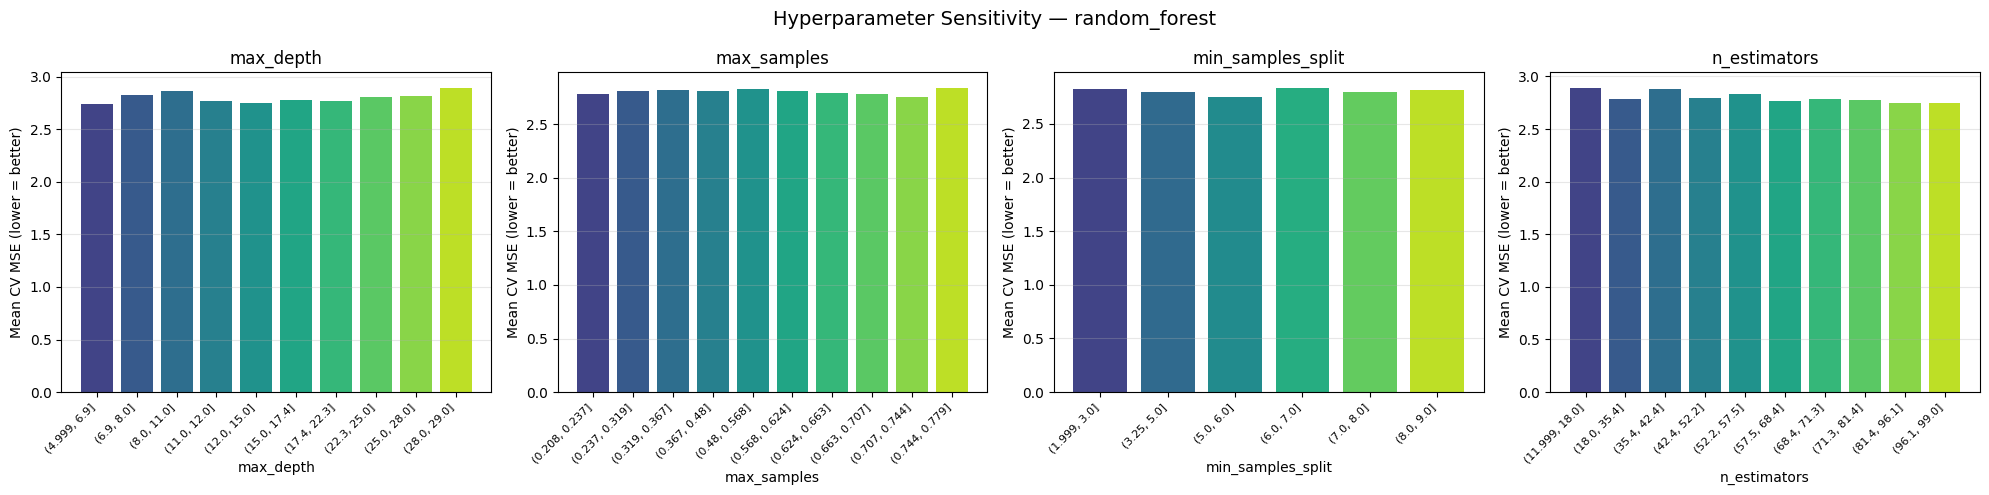
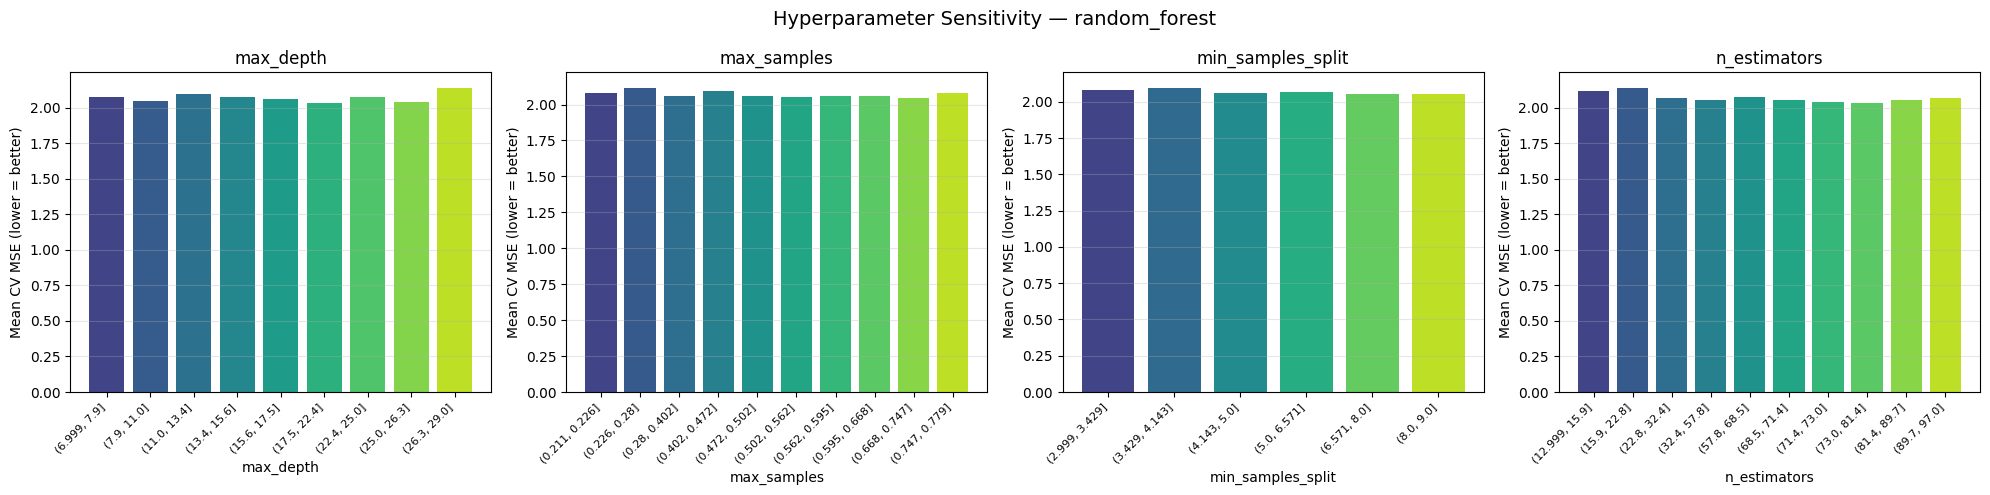
95 fix: training pipeline using wrong dataset directory (#96)
* fix: add dataset caching, negative value handling, verbose training and updated report plots

* doc(report): better report

* fix: add sample_weights.json to timestamped dataset directory

* ignore ml runs

---------

diff --git a/apps/training/training/dataset.py b/apps/training/training/dataset.py
@@ -22,6 +22,10 @@ from sklearn.feature_extraction.text import TfidfVectorizer
 from sklearn.model_selection import PredefinedSplit
 
 logger = get_logger(__name__)
+# Module-level cache for loaded records
+# Avoids re-reading 61k records from disk on every CV fold
+_records_cache: dict[str, list] = {}
+
 
 X_t = npt.NDArray[Any]
 Y_t = npt.NDArray[np.floating]
@@ -166,7 +170,10 @@ class Dataset(BaseModel):
     """
     pipeline_dir = find_latest_pipeline_output()
     jsonl_path = pipeline_dir / "tickets_transformed_improved.jsonl"
-    all_records = _load_jsonl(jsonl_path)
+    cache_key = str(jsonl_path)
+    if cache_key not in _records_cache:
+      _records_cache[cache_key] = _load_jsonl(jsonl_path)
+    all_records = _records_cache[cache_key]
 
     indices = _split_indices(len(all_records), self.split)
     records = [all_records[i] for i in indices]
@@ -298,6 +305,9 @@ class Dataset(BaseModel):
     records = self._load_records()
     raw = [r.get("completion_hours_business") for r in records]
     y = np.array(raw, dtype=np.float64)
+
+    # Replace negative values with NaN (data quality issue)
+    y[y < 0] = np.nan
 
     # Replace missing values with the column mean so the array is complete
     missing_mask = np.isnan(y)

diff --git a/apps/training/training/trainers/train_forest.py b/apps/training/training/trainers/train_forest.py
@@ -44,9 +44,10 @@ def fit_grid(
     cv=cv_split,
     scoring="neg_mean_squared_error",
     refit=True,
-    n_iter=50,
+    n_iter=20,
     random_state=RANDOM_SEED,
     error_score="raise",  # type: ignore
+    verbose=2,
   )
 
   return grid.fit(x, y, sample_weight=sample_weight)

diff --git a/apps/training/training/trainers/train_linear.py b/apps/training/training/trainers/train_linear.py
@@ -45,9 +45,10 @@ def fit_grid(
     scoring="neg_mean_squared_error",
     refit=True,
     n_jobs=-1,
-    n_iter=50,
+    n_iter=20,
     random_state=RANDOM_SEED,
     error_score="raise",  # type: ignore
+    verbose=2,
   )
 
   return grid.fit(x, y, sample_weight=sample_weight)

diff --git a/apps/training/training/trainers/train_xgboost.py b/apps/training/training/trainers/train_xgboost.py
@@ -64,9 +64,10 @@ def fit_grid(
     scoring="neg_mean_squared_error",
     refit=True,
     n_jobs=1,
-    n_iter=50,
+    n_iter=20,
     random_state=RANDOM_SEED,
     error_score="raise",  # type: ignore
+    verbose=2,
   )
 
   return grid.fit(x, y, sample_weight=sample_weight)

diff --git a/reports/01_ML_PIPELINE.md b/reports/01_ML_PIPELINE.md
@@ -1,5 +1,14 @@
 # ML Pipeline Requirements Coverage Report (Design-Decision Annotated)
 
+High-level summary: `train.py` is the model-build harness (multi-model training,
+hyperparameter search, best-model selection, and analysis artifacts), while
+`train_with_gates.py` is the release-governance harness (validation, bias, and
+regression gates plus optional promotion with a manifest [in-depth release information]). Data lineage is pinned via DVC
+snapshots (`dvc pull`, `--snapshot-id`, `--source-uri`), experiment tracking and
+registry state are stored in MLflow, local run artifacts are written under
+`models/{run_id}/`, GitHub Actions uploads those run folders as CI artifacts,
+and approved bundles are pushed to GCP Cloud Storage (`gs://.../models/{run_id}/`).
+
 ## Visual Evidence (Training + Registry + Analysis)
 
 This section contains all available report images for quick review of training runs,
@@ -67,7 +76,7 @@ Expected outputs:
 - models/local-ml-001/best.txt
 - models/local-ml-001/eval_{model}.json
 - models/local-ml-001/performance.png
-- all kinds of model specific plots and evaluations (metrics, sensitivity, etc.)
+- all kinds of model specific plots and evaluations (metrics, sensitivity, etc.) also output in models/local-ml-001
 
 ### 9.3 Run full gated training/promotion decision
 
@@ -85,6 +94,8 @@ Expected outputs:
 
 - models/local-gates-001/gate_report.json
 - models/local-gates-001/run_manifest.json
+- all kinds of model specific plots and evaluations (metrics, sensitivity, etc.) also output in models/local-ml-001
+- same evaluation and 'best.txt' still output here
 -
 - Exit code 0 when gates pass or promotion is skipped successfully
 - Exit code 2 when blocked/failed by gating logic
@@ -104,11 +115,11 @@ What this does:
 - Runs training.cmd.train_with_gates in container
 - Mounts host data/ and models/ into container paths used by training code
 - Loads .env automatically when present
-- You still need to set env vars locally for this to work!
+- You still need to set env vars locally for this to work if you want it to talk to prod mlflow
 
 ### CI/CD
 
-You trigger the workflow by visiting the github page -> actions -> model CI/CD -> run/
+You trigger the workflow by visiting the github page -> actions -> model CI/CD -> run !
 
 Workflow entrypoint:
 
@@ -148,6 +159,122 @@ For each requirement sub-part, this report documents:
 ## A) train_with_gates.py Contract (Input/Output Reference)
 This is the main script which does all the training and acts
 as a harness/orcestrator.
+
+### Flowchart: train_with_gates.py Execution Steps
+
+```mermaid
+flowchart TD
+  A[Start: parse CLI args] --> B[Configure MLflow from env]
+  B --> C[Create initial run_manifest.json]
+  C --> D{Does models/runid/best.txt exist?}
+  D -- Yes --> E[Skip training]
+  D -- No --> F[Run training.cmd.train]
+  E --> G[Read best model from best.txt]
+  F --> G
+  G --> H[Read candidate metrics from eval_model.json]
+  H --> I[Load gate config thresholds]
+  I --> J[Evaluate validation gate]
+  J --> K[Evaluate bias gate]
+  K --> L[Load production baseline from MLflow]
+  L --> M[Evaluate regression guardrail]
+  M --> N{All gates passed?}
+
+  N -- No --> O[Decision = blocked with fail reasons]
+  N -- Yes --> P{--promote true?}
+  P -- No --> Q[Decision = skipped]
+  P -- Yes --> R[Attempt MLflow promotion]
+  R --> S{Promotion succeeded?}
+  S -- Yes --> T[Decision = promoted]
+  S -- No --> U[Decision = failed]
+
+  O --> V[Build and write gate_report.json]
+  Q --> V
+  T --> V
+  U --> V
+  V --> W[Update run_manifest.json with reports and decision]
+  W --> X{Decision blocked or failed?}
+  X -- Yes --> Y[Exit code 2]
+  X -- No --> Z[Exit code 0]
+```
+
+Notes:
+
+- Training is idempotent for an existing run id that already has `best.txt`.
+- Baseline comparison is skipped gracefully when production model metadata is unavailable.
+- Promotion only occurs when all gates pass and `--promote true`.
+
+### Summary: what train.py does
+
+`train.py` is the core training harness. It parses model/run inputs, configures MLflow,
+trains each requested model under nested MLflow runs, compares evaluation outputs,
+writes the best model decision, generates analysis artifacts (performance plot,
+cross-validation summaries, sensitivity and SHAP plots), optionally promotes the
+best model in MLflow, and then attempts to push model artifacts to GCP storage.
+
+By default, it trains model families that support sample weights (`forest`, `linear`,
+`xgboost`). `svm` can be included explicitly via `--models`, and currently runs
+the full-kernel variant (`svm_full`).
+
+### Model families and estimators trained by train.py
+
+- `forest` -> `RandomForestRegressor`
+- `linear` -> `SGDRegressor`
+- `svm` -> `SVR` (currently `svm_full`; an approximate pipeline exists but is disabled)
+- `xgboost` -> `xgboost.XGBRegressor`
+
+### Hyperparameter search in train.py
+
+Each trainer uses `RandomizedSearchCV` with `PredefinedSplit` and
+`scoring="neg_mean_squared_error"`, then refits the best configuration.
+
+There is hyper-parameter tuning configured for:
+
+- `forest`
+- `linear`
+- `svm_full`
+- `xgboost`
+
+Selection logic after all searches:
+
+- Per-model: best trial is selected by `RandomizedSearchCV` under MSE-based scoring.
+- Cross-model: `train.py` picks the overall best model by highest holdout `r2` from
+  `eval_*.json`, and writes that decision to `best.txt`.
+
+### Flowchart: train.py Execution Steps
+
+```mermaid
+flowchart TD
+  A[Start: parse CLI args models/runid/promote] --> B[Configure MLflow tracking and experiment]
+  B --> C[Enable sklearn autolog with max tuning runs]
+  C --> D[Create models/runid directory]
+  D --> E[Ensure run_manifest.json exists]
+  E --> F[Start parent MLflow run multi_model_search]
+  F --> G[Log parent run params and tags]
+  G --> H[Loop through each requested model]
+  H --> I[Start nested MLflow run search_model]
+  I --> J[Import and run training.trainers.train_model.main]
+  J --> K[Log model artifact and eval metrics if present]
+  K --> L{More models left?}
+  L -- Yes --> H
+  L -- No --> M[Load eval_*.json metrics from run directory]
+  M --> N[Plot performance.png and log artifact]
+  N --> O[Rank models by R2 and write best.txt]
+  O --> P[Save cv_results and run sensitivity analysis]
+  P --> Q[End parent MLflow run]
+
+  Q --> R{--promote set?}
+  R -- Yes --> S[Promote best model in MLflow]
+  R -- No --> T[Skip promotion]
+  S --> U[Attempt artifact push to GCP]
+  T --> U
+  U --> V[End]
+```
+
+Notes:
+
+- Best model selection uses highest `r2` found in `eval_*.json` files.
+- Sensitivity analysis failures are non-fatal and are logged, then execution continues.
+- Artifact push to GCP is best-effort and does not stop training completion on failure.
 
 ### CLI Inputs
 
@@ -203,6 +330,9 @@ External outputs:
 - MLflow experiment runs and registry versions
 - GCS artifacts at gs://<bucket>/models/{runid}/...
 - CI notification email (workflow-level)
+
+The run_manifest.json has all the information about git sha, DVC data version used,
+selected model, eval criteria and so-on.
 
 ---
 
@@ -326,7 +456,7 @@ External outputs:
 - Requirement intent:
   - Include executable bias checks and mitigation strategy/reporting.
 - Status:
-  - Partially Met
+  - Met
 - What is implemented:
   - Detection/reporting:
     - apps/training/training/bias/analyzer.py
@@ -336,16 +466,12 @@ External outputs:
     - apps/training/training/bias/mitigation.py
     - apps/training/training/analysis/run_bias_mitigation.py
 - Design decision and justification:
-  - Decision: Keep mitigation generation as an explicit, separable step (sample weights/resampling) rather than automatic in train_with_gates.
+  - Decision: Keep mitigation generation as an explicit, separable step (sample weights/resampling) rather than automatic in train_with_gates. This is kind of an in-between were our is aware of the bias when promoting (and gates) and also tries to mitigate with the sample weighting.
   - Justification: Prevents hidden data transformations in promotion pipeline and allows controlled fairness tuning.
-- train_with_gates.py inputs related:
-  - No in-line mitigation toggle.
+
 - Observable outputs:
   - Bias reports and gate decisions in models/{runid}/
   - sample_weights.json when mitigation script is run explicitly.
-- Gap and improvement path:
-  - Gap: Mitigation is not automatically executed/iterated within the same train_with_gates run.
-  - Improvement: Add optional flag (for example, --auto-mitigate) to run mitigation and retrain once before final gate evaluation.
 
 ### 2.6 Push model to artifact/model registry
 
@@ -514,10 +640,11 @@ External outputs:
 - Requirement intent:
   - Apply mitigation when bias is detected.
 - Status:
-  - Partially Met
+  - Met
 - What is implemented:
   - Mitigation methods exist (reweighting/resampling) and sample-weight paths are supported.
-  - Mitigation is currently a separate pipeline/module action, not in-line in train_with_gates.
+  - Mitigation is produced by the data pipeline's bias remediation steps as sample_weights.json in
+    the data directory. This is read to determine the weights to apply to samples from each repo.
 - Design decision and justification:
   - Decision: Keep mitigation explicit/manual rather than automatic retraining loops inside promotion gate.
   - Justification: Avoids hidden fairness/accuracy trade-off changes during deployment-critical runs.
@@ -526,26 +653,28 @@ External outputs:
 - Observable outputs:
   - sample_weights.json when mitigation script is run.
 - Gap and improvement path:
-  - Gap: No closed-loop “detect -> mitigate -> retrain -> re-gate” inside one CI run.
-  - Improvement: Add explicit CI stage with deterministic mitigation policy and one bounded retrain cycle.
+  - Gap: No closed-loop “detect -> mitigate -> retrain -> re-gate” inside one CI run, depends on `existing data/<dataset_id>/sample_weights.json`
+  - Potential Improvement: Add explicit CI stage with deterministic mitigation policy and one bounded retrain cycle.
 
 ### 6.4 Document bias mitigation and trade-offs
 
 - Requirement intent:
   - Record what was changed, why, and resulting trade-offs.
 - Status:
-  - Partially Met
+  - Met
 - What is implemented:
   - Bias report text files and gate report reason codes provide structured evidence.
+  - These can be used to understand how samples were weighted and what the result of this weighting was
 - Design decision and justification:
   - Decision: Artifact-first reporting (text/json files per run) over narrative-only report generation.
-  - Justification: Machine-readable artifacts integrate better with CI and post-run automation.
+  - Justification: Machine-readable artifacts integrate better with CI and post-run automation. Its hard for machines to explain _why_ bias exists, so this is good middle ground
 - train_with_gates.py inputs related:
   - Gate threshold env vars shape policy strictness/trade-offs.
+  - Training outputs bias reports to bias_{model}_{slice}.txt
 - Observable outputs:
   - bias_{model}_{slice}.txt and gate_report.json
 - Gap and improvement path:
-  - Gap: No automatic consolidated narrative “trade-off memo” artifact per run.
+  - Gap: No automatic consolidated narrative “trade-off memo” artifact per run. But, we still have these bias reports which are automatically made and used to validate the release (and if bias is too much) it acts as a failure reason (which is emailed to user)
   - Improvement: Generate a run-level mitigation_decision.md summarizing pre/post disparities and performance impact.
 
 ---
@@ -641,23 +770,24 @@ External outputs:
 - Requirement intent:
   - Ensure degraded candidates do not replace stable production models.
 - Status:
-  - Partially Met
+  - Met
 - What is implemented:
   - Preventive rollback behavior:
-    - regression guardrail blocks promotion for excessive degradation
+    - regression guardrail blocks promotion for excessive degradation compared to existing model
     - baseline_retained semantics in run_manifest update
   - Safe transition strategy:
-    - promote new version first, archive prior Production versions after success
+    - promote new version first, archive prior Production versions after success (using mlflow)
 - Design decision and justification:
   - Decision: Prefer pre-promotion prevention over post-deployment reactive rollback.
-  - Justification: Reduces production blast radius by avoiding bad deployment in the first place.
+  - Justification: Reduces production blast radius by avoiding bad deployment in the first place. We also aren't in the 'deploy' deliverable yet, so since we can't check service health after "promoting" (i.e. blue-green roll-out or canary), this is a good intermediate
 - train_with_gates.py inputs related:
   - MODEL_CICD_MAX_REGRESSION_DEGRADATION
 - Observable outputs:
   - gate_report.json and run_manifest.json decision trail
+  - If gated, email will be sent with the reason
 - Gap and improvement path:
   - Gap: No automated post-deployment rollback trigger based on live production telemetry.
-  - Improvement: Add monitoring signal ingestion + automated registry stage reversion workflow.
+  - Improvement: Add monitoring signal ingestion + automated registry stage reversion workflow. This will come in the next deliverable as we look to consider blue/green roll outs
 
 ---
 
@@ -677,11 +807,11 @@ External outputs:
 ### Partially Met (with explicit rationale)
 
 - Bias mitigation loop automation in train_with_gates path
-  - Rationale: currently kept explicit/manual to avoid hidden retraining side effects during promotion runs
-  - Recommended enhancement: optional deterministic auto-mitigation retrain pass
+  - Rationale: currently kept explicit/manual to avoid hidden retraining side effects during promotion runs. We have automatic bias mitigation with the feature weighting and we have automatic 'remediation' by gating promotion on this
+  - Recommended enhancement: we can explore more methods for mitigating bias (i.e. partial fit models, resampling, etc.)
 - Post-deployment reactive rollback automation
   - Rationale: current design prioritizes preventive gating before production promotion
-  - Recommended enhancement: telemetry-driven automatic rollback workflow
+  - Recommended enhancement: telemetry-driven automatic rollback workflow using something like blue-green
 
 ### Not Met
 
